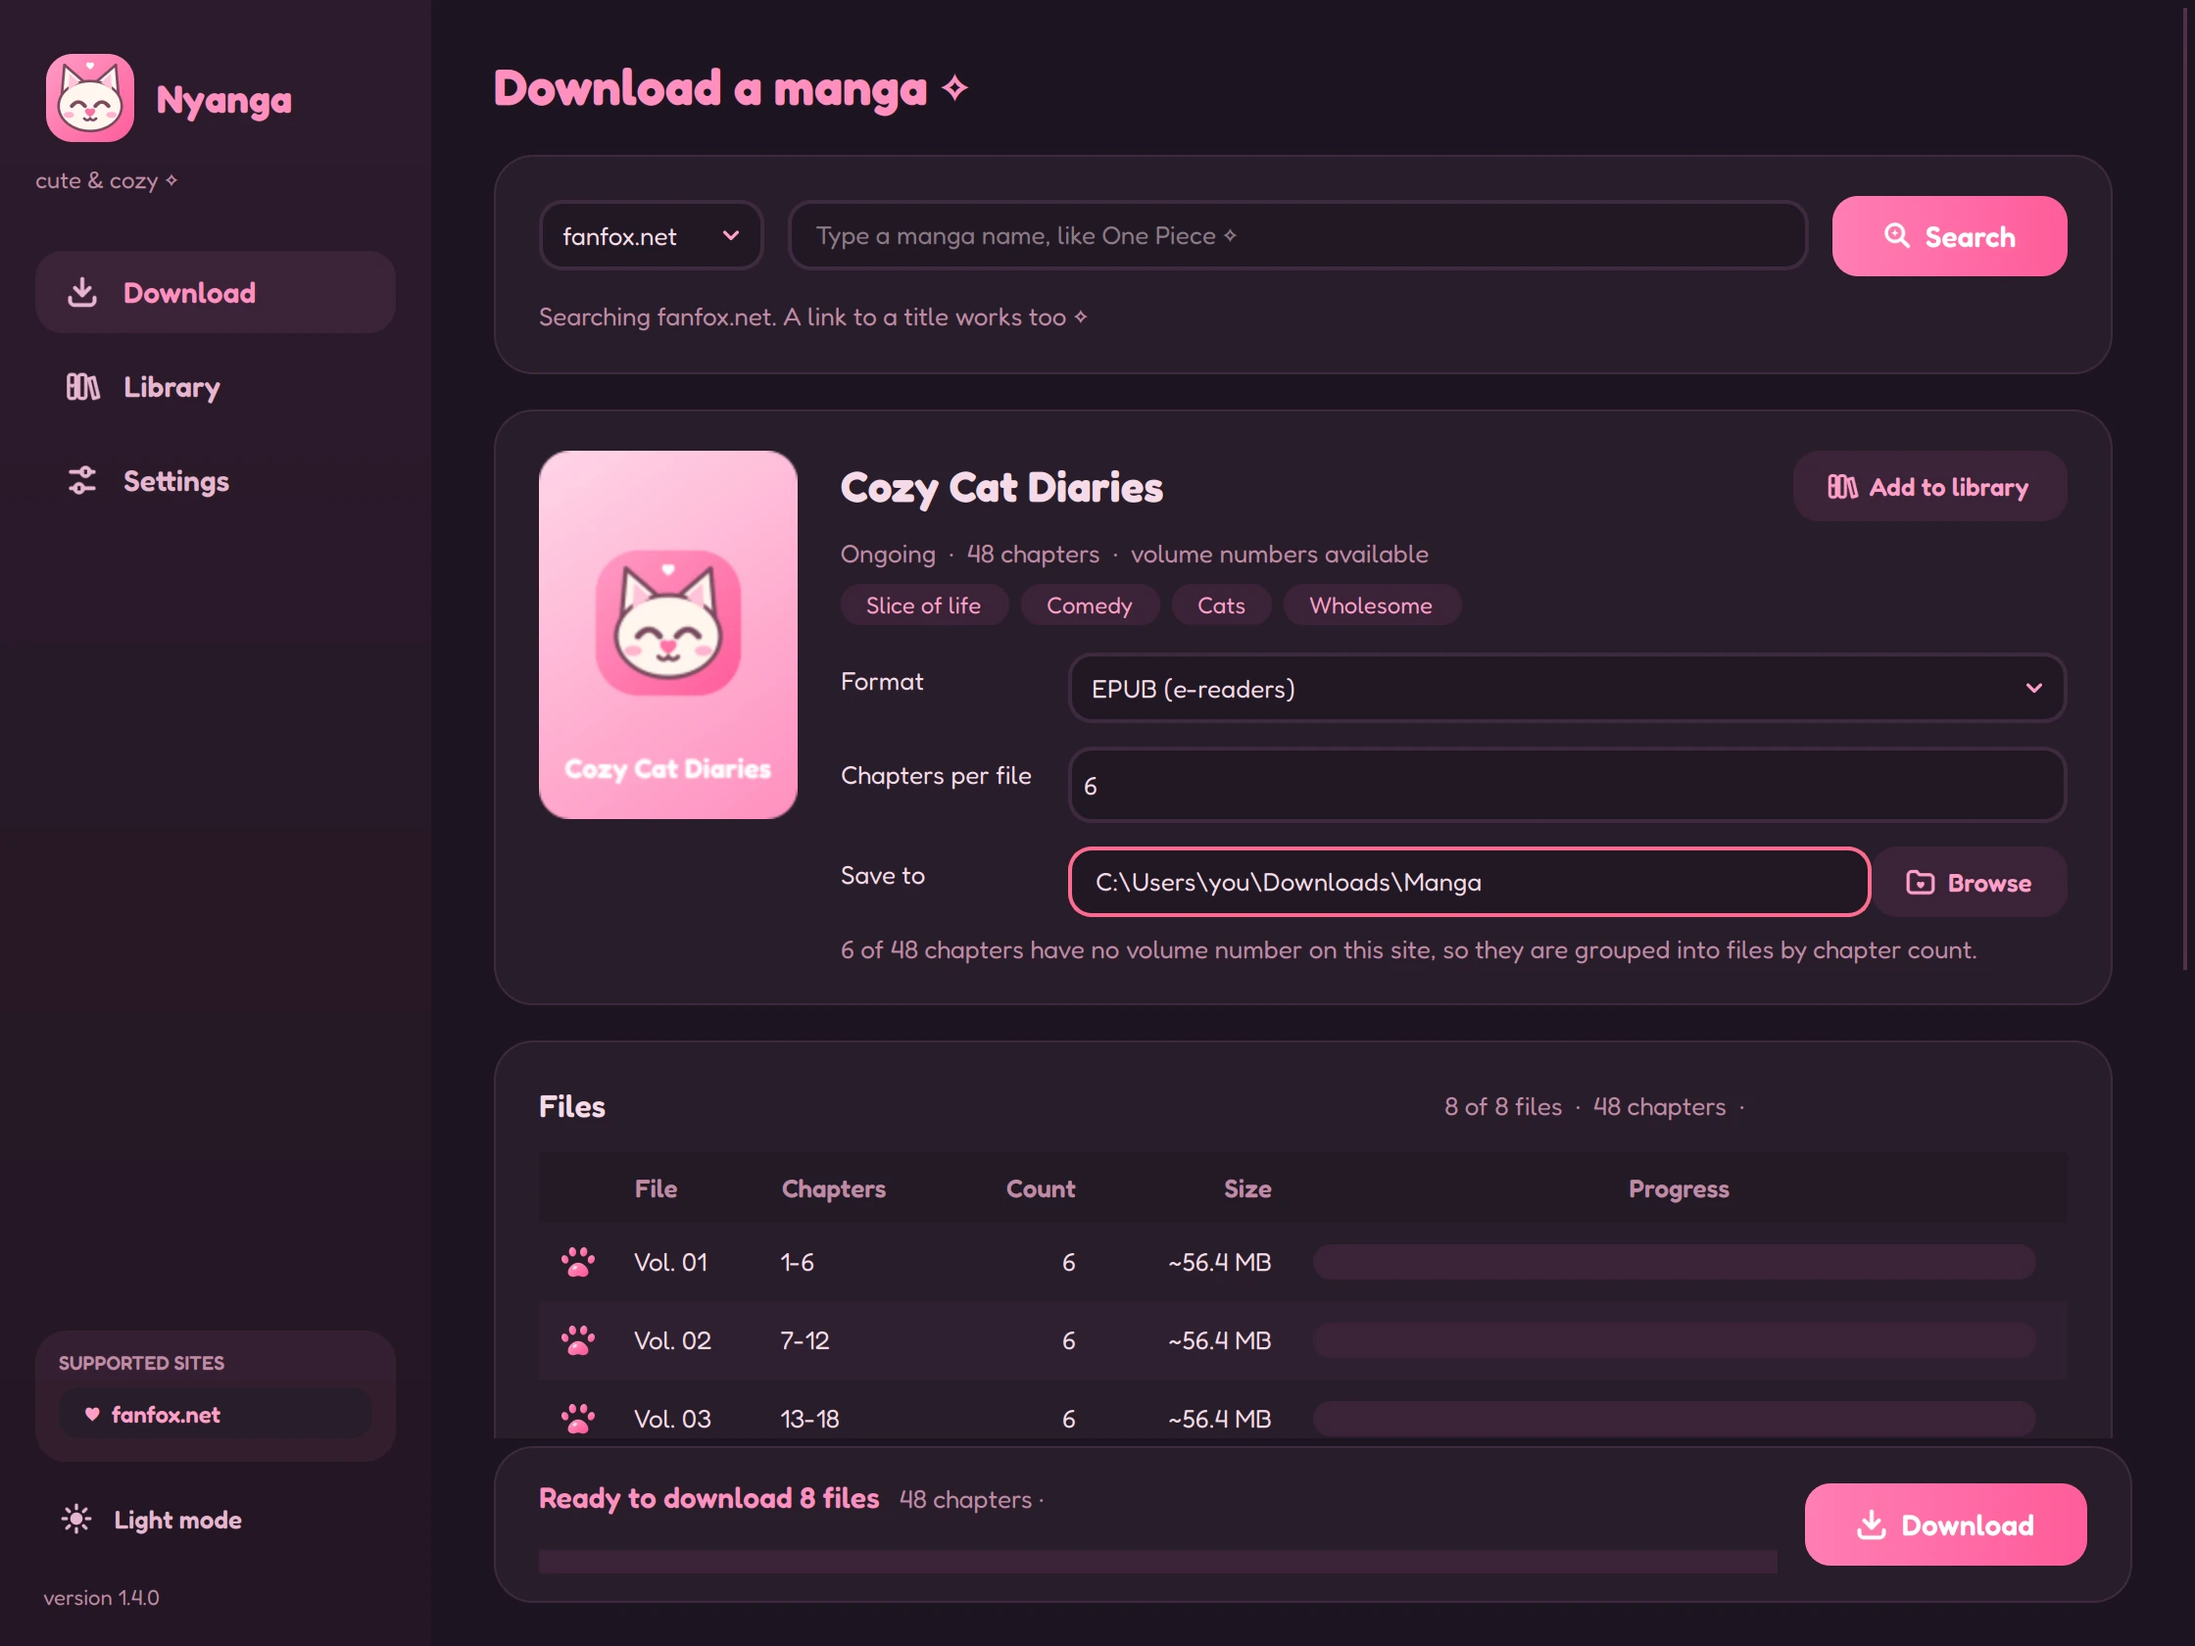
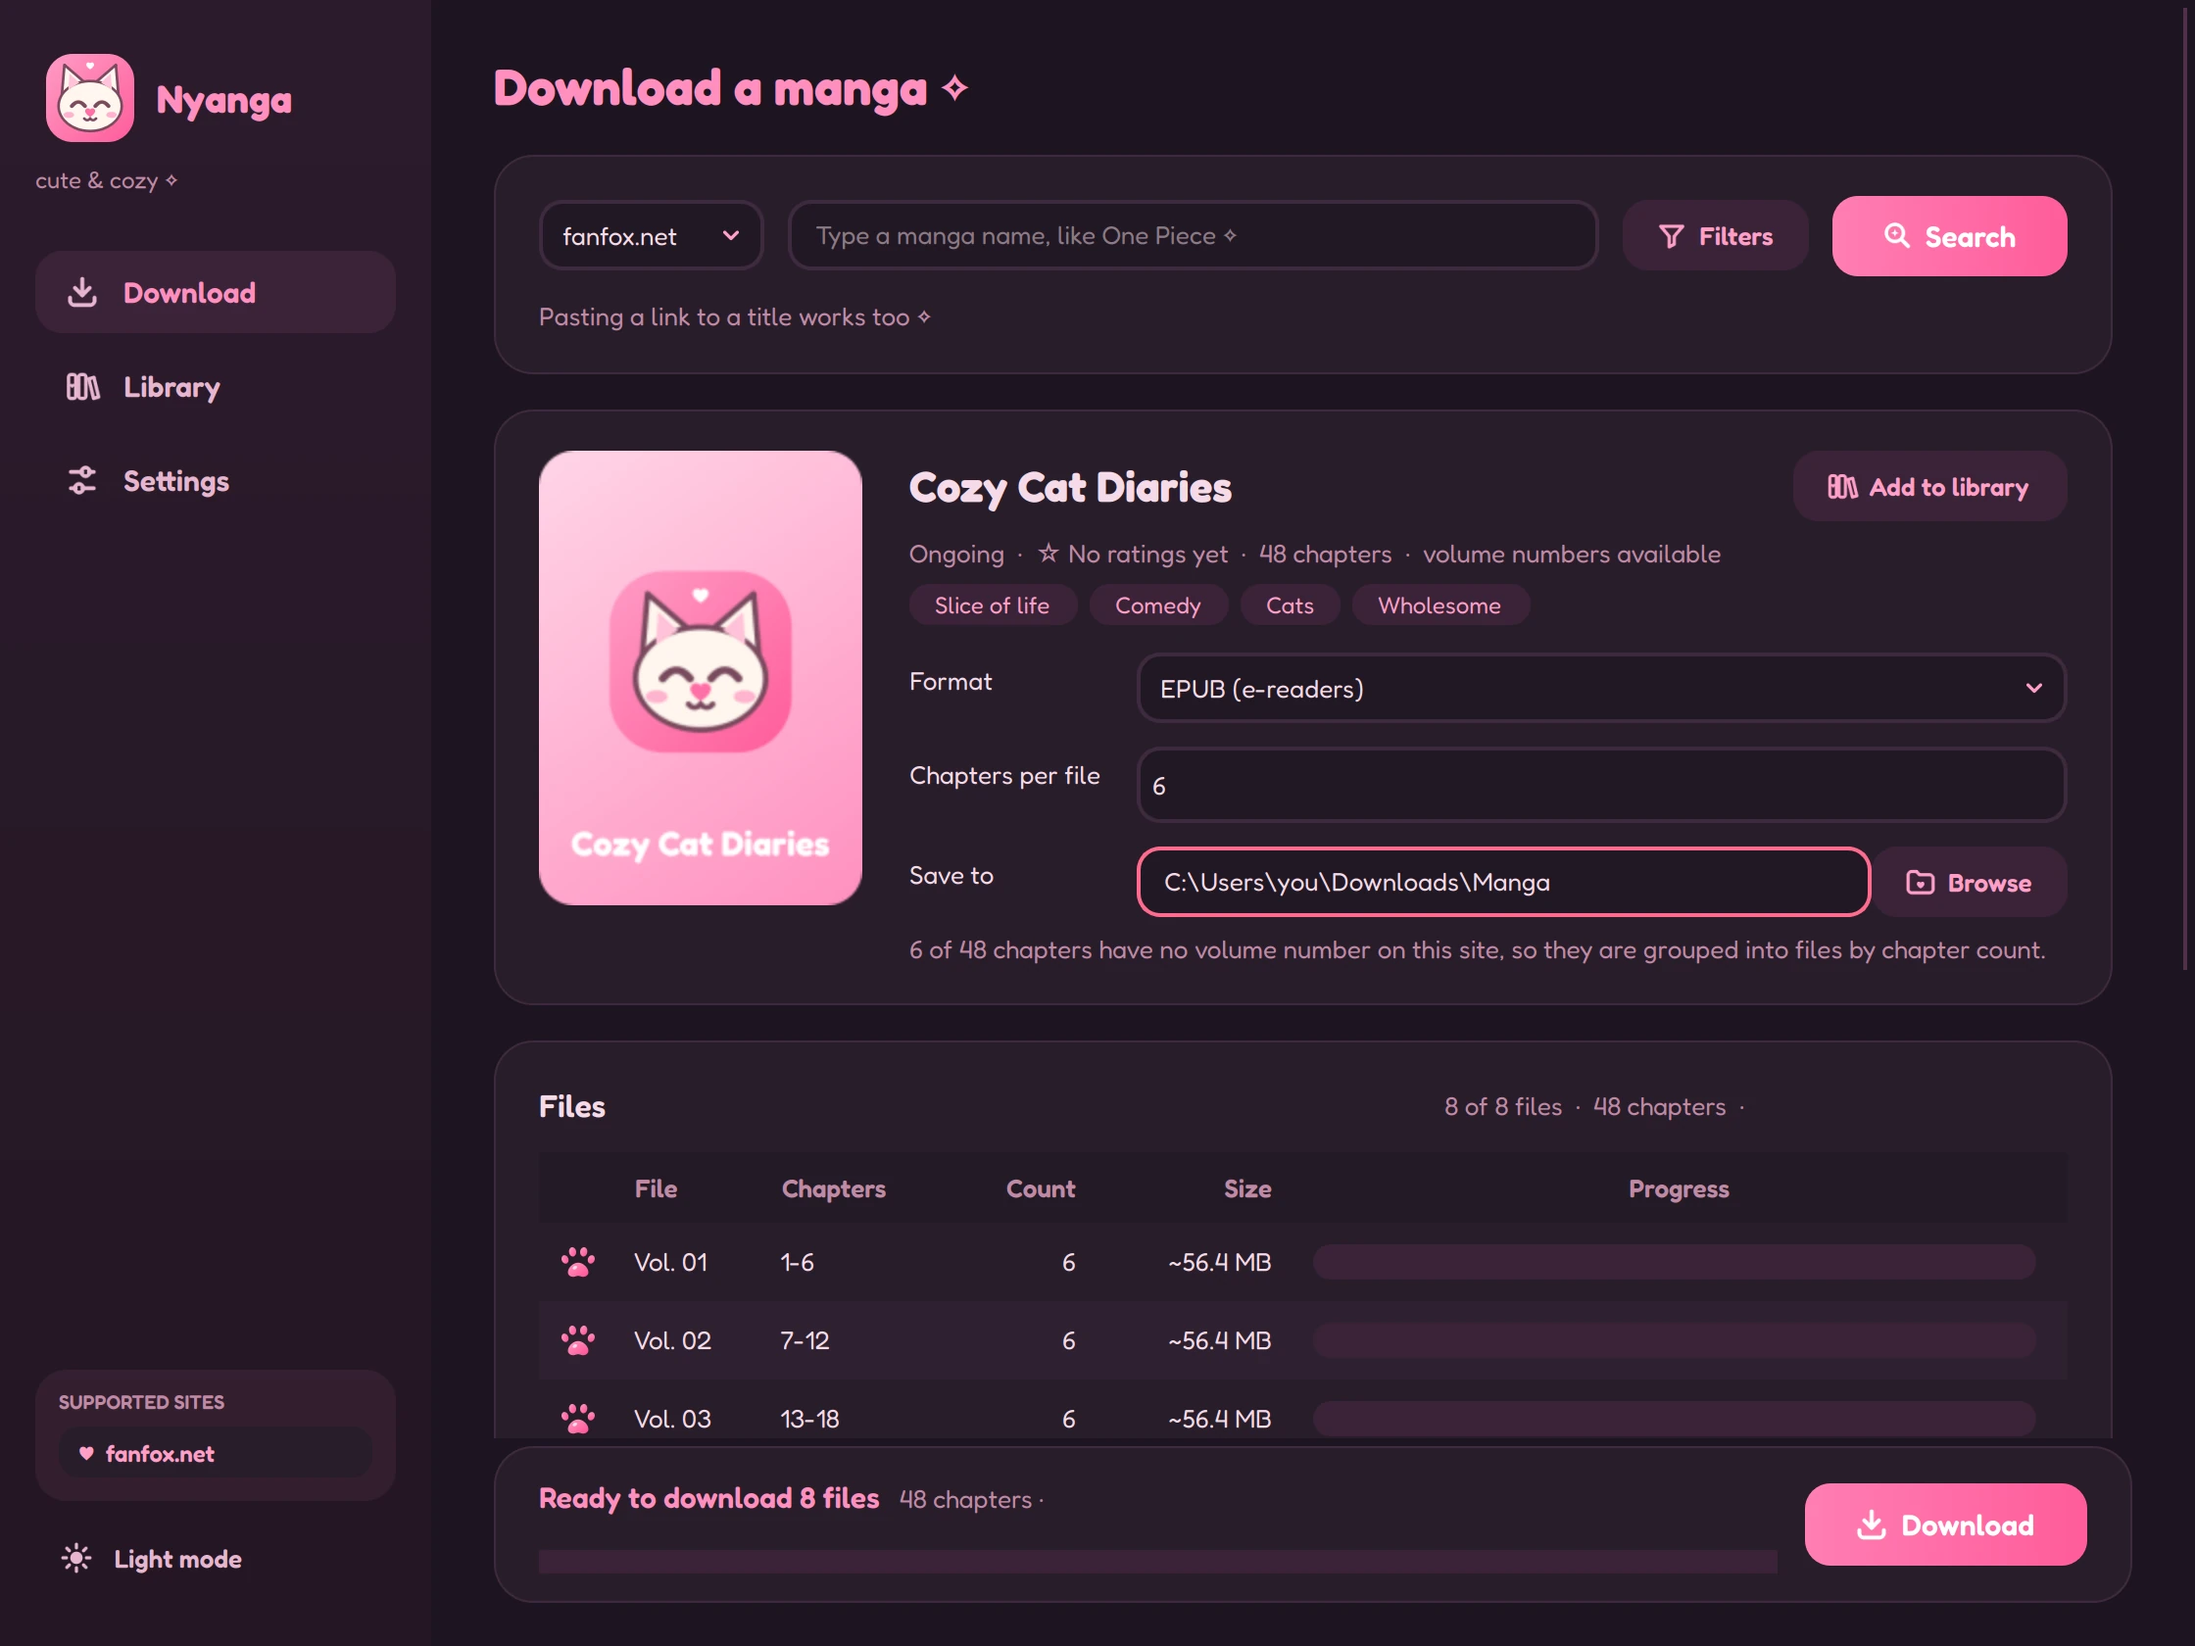
chore: refreshed the app pictures with the filters button
The pictures of the app show the new Filters button and no longer show a version number in the sidebar.

diff --git a/scripts/render_shots.py b/scripts/render_shots.py
@@ -33,7 +33,7 @@ paths.DATA = paths.CONFIG = DATA
 from PIL import Image  # noqa: E402
 from PySide6.QtCore import QBuffer, QEvent, QPoint, QPointF, QRect, QRectF, Qt  # noqa: E402
 from PySide6.QtGui import QColor, QFont, QImage, QLinearGradient, QPainter, QPainterPath, QPen  # noqa: E402
-from PySide6.QtWidgets import QApplication, QWidget  # noqa: E402
+from PySide6.QtWidgets import QApplication, QPushButton, QWidget  # noqa: E402
 
 import core  # noqa: E402
 import gui  # noqa: E402
@@ -160,6 +160,7 @@ def window(mode: str, size: tuple[int, int]) -> gui.MainWindow:
         "download_dir": r"C:\Users\you\Downloads\Manga", "theme": mode, "seen_version": VERSION,
         "default_format": "epub"}))
     w = gui.MainWindow()
+    w.findChild(QPushButton, "version").hide()  # it would go out of date
     w.resize(*size)
     w.show()
     QApplication.processEvents()
